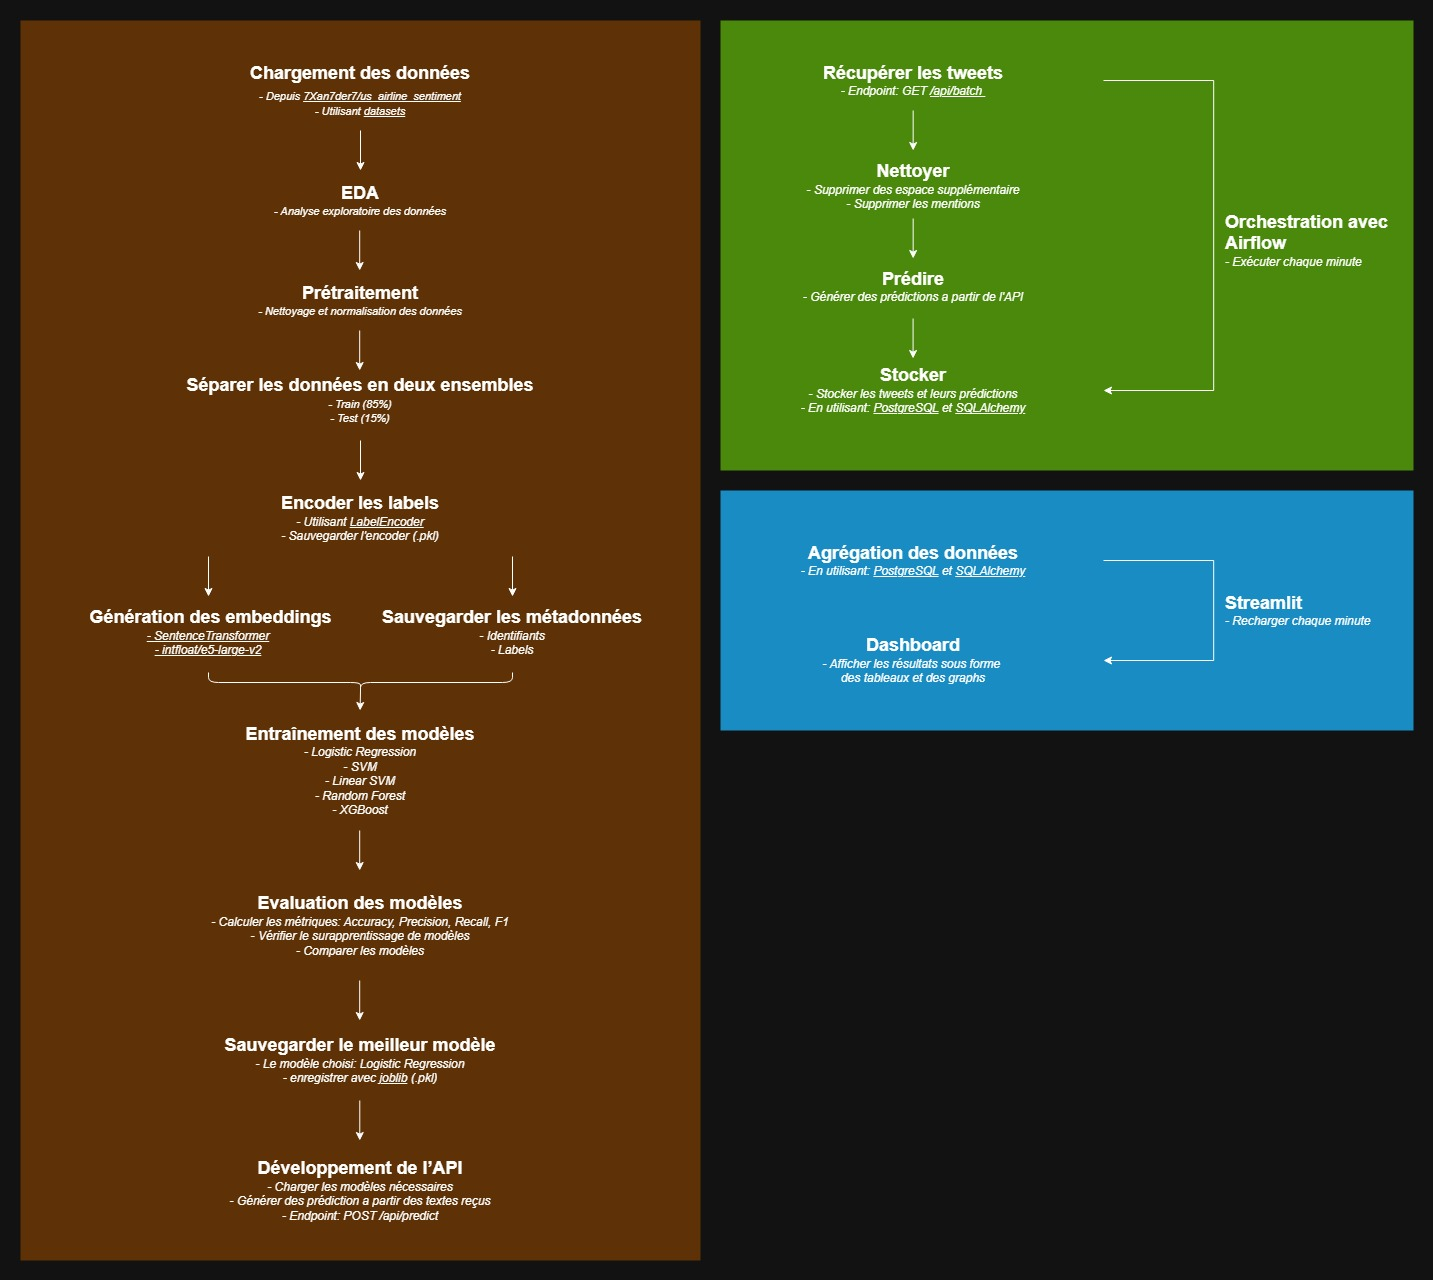
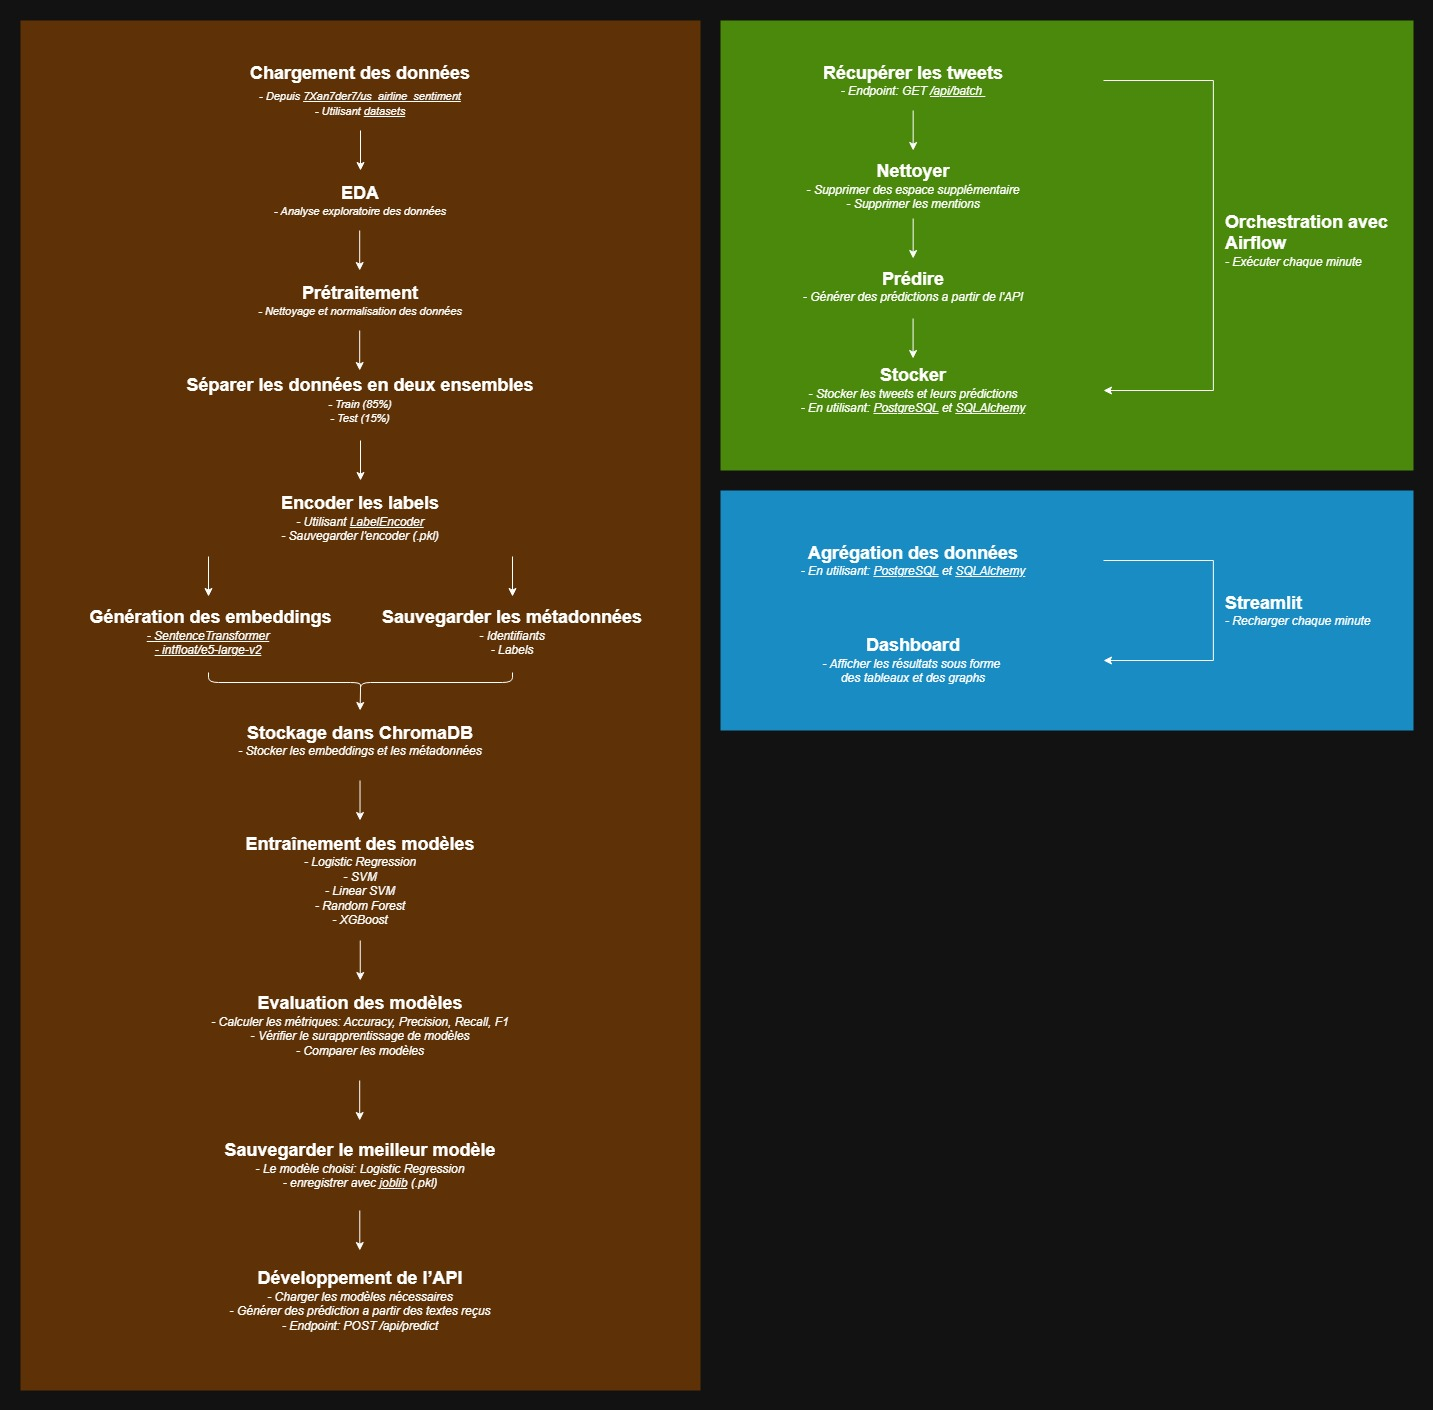
Mettre à jour l'architecture

diff --git a/README.md b/README.md
@@ -260,4 +260,4 @@ http://localhost:8501
 
 ### Architecture
 
-![Architecture](https://github.com/user-attachments/assets/3841e38b-63cd-468e-870d-42222abf5419)
+![Architecture](https://github.com/user-attachments/assets/75010b20-4ac8-4d54-b46d-b089030d626d)

diff --git a/README_en.md b/README_en.md
@@ -260,4 +260,4 @@ http://localhost:8501
 
 ### Architecture
 
-![Architecture](https://github.com/user-attachments/assets/3841e38b-63cd-468e-870d-42222abf5419)
+![Architecture](https://github.com/user-attachments/assets/75010b20-4ac8-4d54-b46d-b089030d626d)
